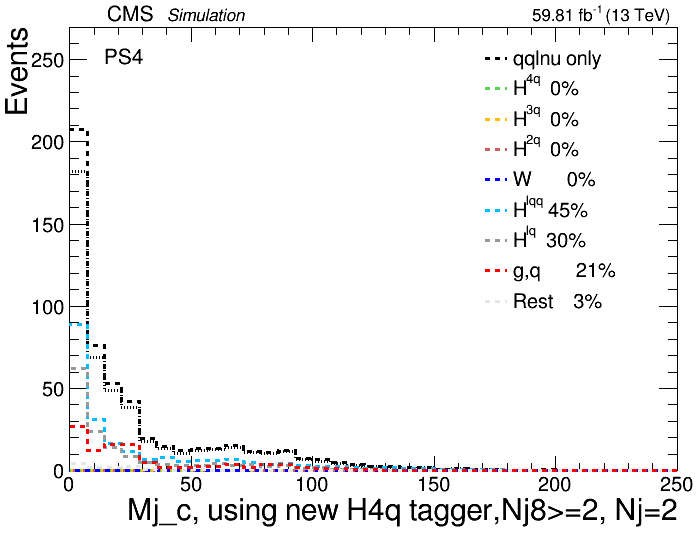
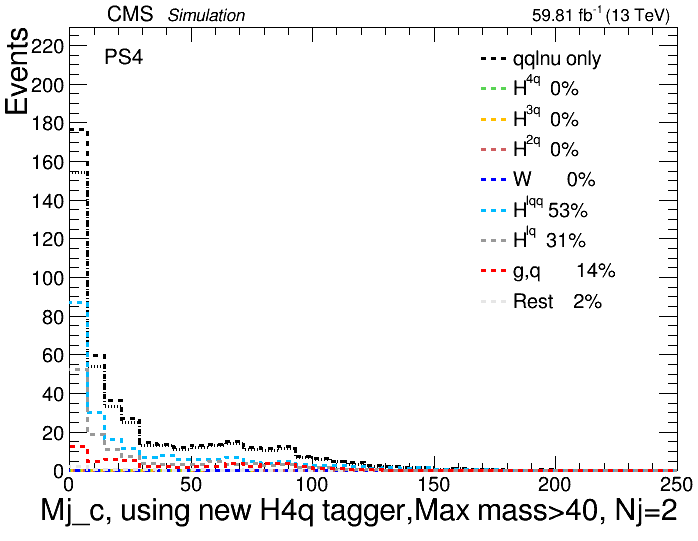
Add Mass

diff --git a/Makeplots_HWW_Nj2_OverData.py b/Makeplots_HWW_Nj2_OverData.py
@@ -179,8 +179,8 @@ class ANALYSIS:
             #self.construct_plot(Nj, "JetMass_Nj2_c"    ,selection          ,"",tag  ,50, 0 ,60,"Mj_c, Nj=2"                        ,"Events" ,logy,CR);             
             #self.construct_plot(Nj, "JetMass_Nj2_a"    ,selection          ,"",tag  ,50, 0 ,250,"Mj_a, Nj=2"                        ,"Events" ,logy,CR);             
             #self.construct_plot(Nj, "JetMass_Nj2_c"    ,selection          ,"",tag  ,50, 0 ,250,"Mj_c, Nj=2"                        ,"Events" ,logy,CR);             
-            self.construct_plot(Nj, "JetMass_Nj2_a_new"    ,selection          ,"",tag  ,35, 0 ,250,"Mj_a, using new H4q tagger,Nj8>=2, Nj=2"                        ,"Events" ,logy,CR);             
-            self.construct_plot(Nj, "JetMass_Nj2_c_new"    ,selection          ,"",tag  ,35, 0 ,250,"Mj_c, using new H4q tagger,Nj8>=2, Nj=2"                        ,"Events" ,logy,CR);             
+            self.construct_plot(Nj, "JetMass_Nj2_a_new"    ,selection          ,"",tag  ,35, 0 ,250,"Mj_a, using new H4q tagger,Max mass>40, Nj=2"                        ,"Events" ,logy,CR);             
+            self.construct_plot(Nj, "JetMass_Nj2_c_new"    ,selection          ,"",tag  ,35, 0 ,250,"Mj_c, using new H4q tagger,Max mass>40, Nj=2"                        ,"Events" ,logy,CR);             
             #self.construct_plot(Nj, "MET_pt/Pt_Nj2_a_new"    ,selection          ,"",tag  ,20, 0 ,1,"MET/PT_Higgs, using new H4q tagger order,Nj=2"                        ,"Events" ,logy,CR);  
             #self.construct_plot(Nj, "MET_pt/(Pt_Nj2_a_new+Pt_Nj2_c_new)**0.5"    ,selection          ,"",tag  ,20, 0 ,10,"MET Significance"                        ,"Events" ,logy,CR);  
                                  
@@ -343,7 +343,8 @@ class ANALYSIS:
         #if options.y=="16"      :path="/eos/cms/store/user/.........;  lumi=36.3;
         #if options.y=="17"      :path="/eos/user/y/yusong/qilong/NTuple_Output/17/all/Tree/mu";  lumi= 41.5;
         #if options.y=="18"      :path="/eos/user/y/yuzhe/HWW/frame/Custom/Tree/NoSelection/";  lumi=59.81;
-        if options.y=="18"      :path="/eos/user/y/yuzhe/HWW/frame/Custom/Tree/NjAbove2/";  lumi=59.81;
+        #if options.y=="18"      :path="/eos/user/y/yuzhe/HWW/frame/Custom/Tree/NjAbove2/";  lumi=59.81;
+        if options.y=="18"      :path="/eos/user/y/yuzhe/HWW/frame/Custom/Tree/MassAbove40/";  lumi=59.81;
         #if options.y=="16,17,18":path="/eos/cms/store/user/.........;  lumi=138;
 
         #====== DEFINE CANVAS ==========================
@@ -367,7 +368,7 @@ class ANALYSIS:
         #t_Signal1 = TChain("NewTree");  t_Signal1.Add(path+ "NewTagger_Nj2_2q.root");  h_Signal1=TH1D("h_Signal1","h_Signal1"+";%s;%s"%(xtitle,ytitle),nbin,min,max);  h_Signal1.Sumw2();
         #t_Signal1 = TChain("NewTree");  t_Signal1.Add(path+ "NewTagger_Nj2_2q_Mode.root");  h_Signal1=TH1D("h_Signal1","h_Signal1"+";%s;%s"%(xtitle,ytitle),nbin,min,max);  h_Signal1.Sumw2();
         #t_Signal1 = TChain("NewTree");  t_Signal1.Add(path+ "2q_NoSelection.root");  h_Signal1=TH1D("h_Signal1","h_Signal1"+";%s;%s"%(xtitle,ytitle),nbin,min,max);  h_Signal1.Sumw2();
-        t_Signal1 = TChain("NewTree");  t_Signal1.Add(path+ "2q_AddNj8.root");  h_Signal1=TH1D("h_Signal1","h_Signal1"+";%s;%s"%(xtitle,ytitle),nbin,min,max);  h_Signal1.Sumw2();
+        t_Signal1 = TChain("NewTree");  t_Signal1.Add(path+ "2q_AddMass.root");  h_Signal1=TH1D("h_Signal1","h_Signal1"+";%s;%s"%(xtitle,ytitle),nbin,min,max);  h_Signal1.Sumw2();
         
         # t_Signal1 = TChain("NewTree");  t_Signal1.Add(path+"Signal/HWW2q_PS.root");  h_Signal1=TH1D("h_Signal1","h_Signal1"+";%s;%s"%(xtitle,ytitle),nbin,min,max);  h_Signal1.Sumw2();
         t_Signal2 = TChain("NewTree"); t_Signal2.Add(path + "NewTagger_Nj2_4q.root"); h_Signal2 = TH1D("h_Signal2", "h_Signal2" + ";%s;%s" % (xtitle, ytitle), nbin, min, max); h_Signal2.Sumw2();
